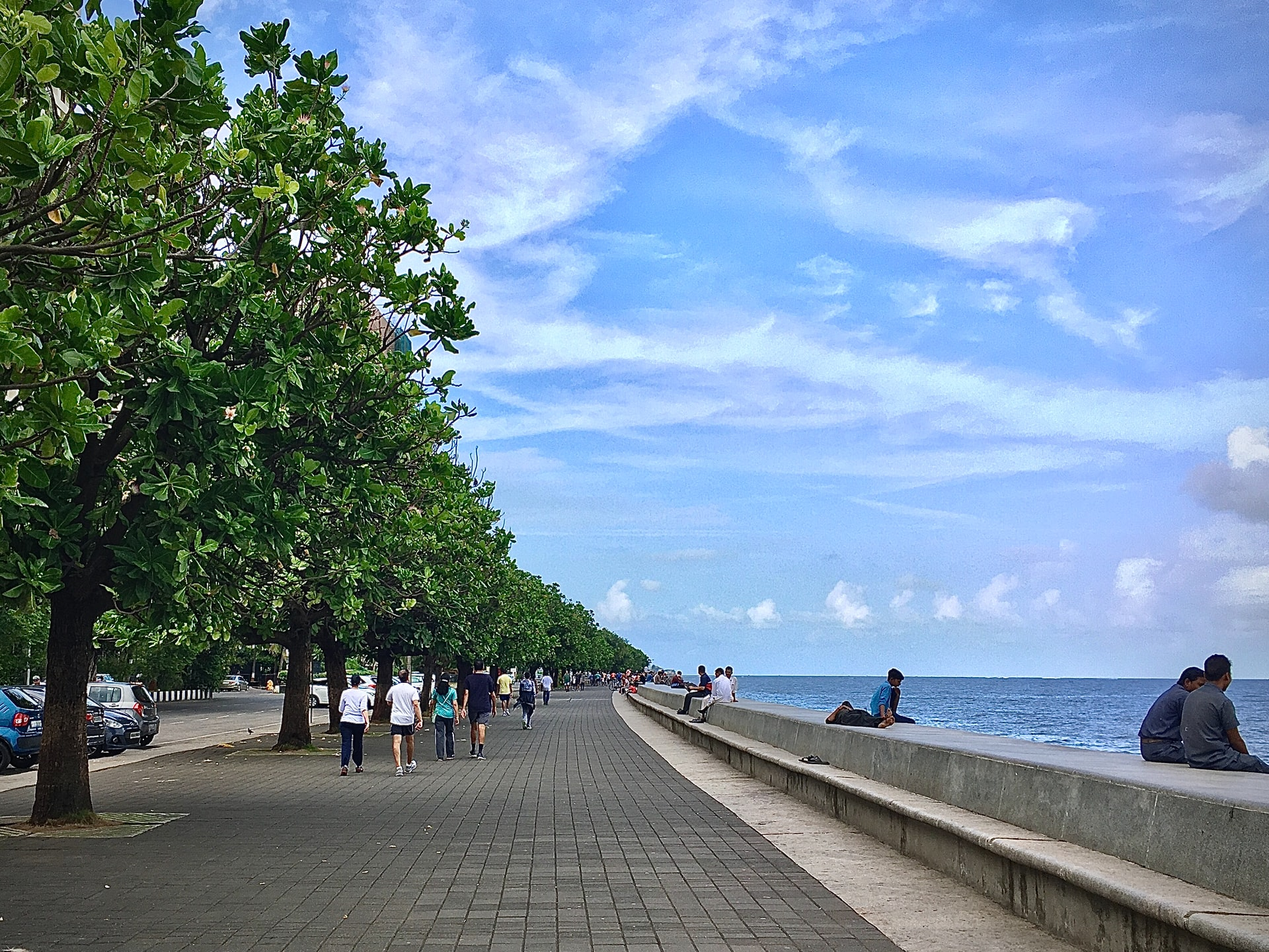
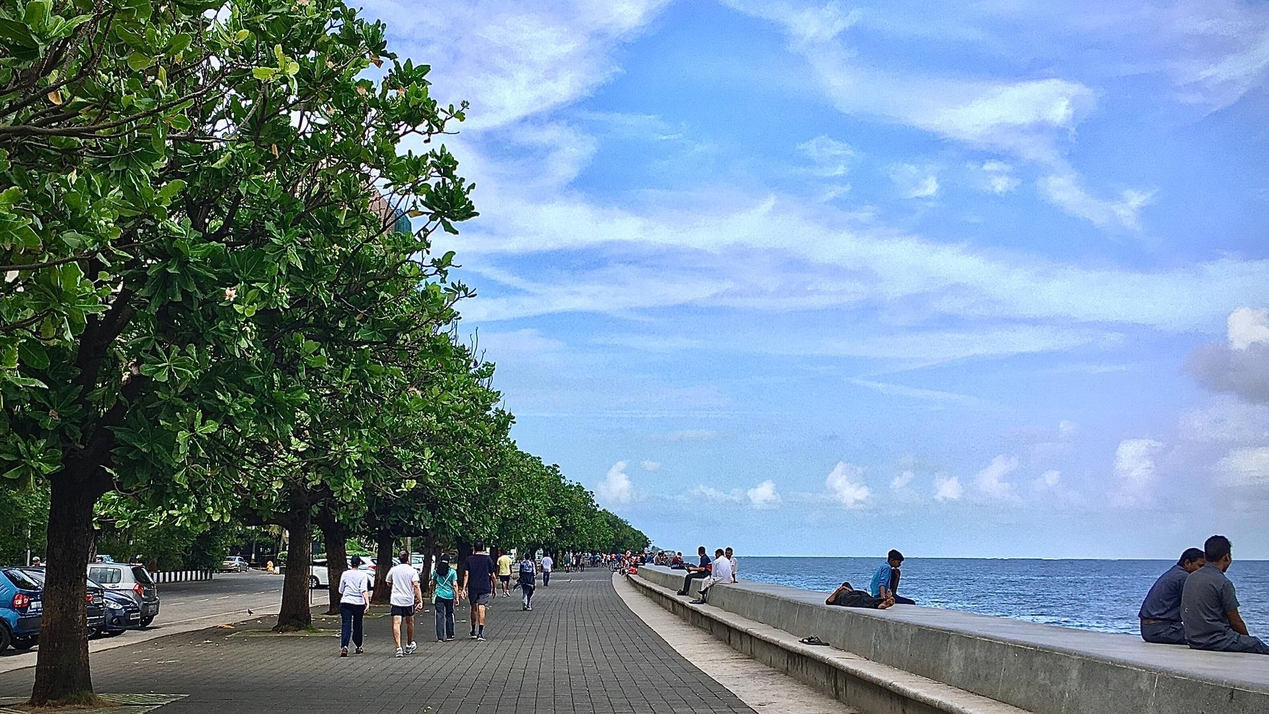
Images optimized and readme changed

diff --git a/README.md b/README.md
@@ -1,6 +1,11 @@
-# Getting Started with Create React App
+# Fire Up Recrutation Projects
 
-This project was bootstrapped with [Create React App](https://github.com/facebook/create-react-app).
+This projects was created as a part of recrutation process in Fire Up Company.
+Design was provided by company I had to create my own version of weather app.
+
+## Live version
+
+You can find live version right here: `https://fireup-recrutation.netlify.app`
 
 ## Available Scripts
 
@@ -8,39 +13,4 @@ In the project directory, you can run:
 
 ### `npm start`
 
-Runs the app in the development mode.\
-Open [http://localhost:3000](http://localhost:3000) to view it in the browser.
-
-The page will reload if you make edits.\
-You will also see any lint errors in the console.
-
-### `npm test`
-
-Launches the test runner in the interactive watch mode.\
-See the section about [running tests](https://facebook.github.io/create-react-app/docs/running-tests) for more information.
-
 ### `npm run build`
-
-Builds the app for production to the `build` folder.\
-It correctly bundles React in production mode and optimizes the build for the best performance.
-
-The build is minified and the filenames include the hashes.\
-Your app is ready to be deployed!
-
-See the section about [deployment](https://facebook.github.io/create-react-app/docs/deployment) for more information.
-
-### `npm run eject`
-
-**Note: this is a one-way operation. Once you `eject`, you can’t go back!**
-
-If you aren’t satisfied with the build tool and configuration choices, you can `eject` at any time. This command will remove the single build dependency from your project.
-
-Instead, it will copy all the configuration files and the transitive dependencies (webpack, Babel, ESLint, etc) right into your project so you have full control over them. All of the commands except `eject` will still work, but they will point to the copied scripts so you can tweak them. At this point you’re on your own.
-
-You don’t have to ever use `eject`. The curated feature set is suitable for small and middle deployments, and you shouldn’t feel obligated to use this feature. However we understand that this tool wouldn’t be useful if you couldn’t customize it when you are ready for it.
-
-## Learn More
-
-You can learn more in the [Create React App documentation](https://facebook.github.io/create-react-app/docs/getting-started).
-
-To learn React, check out the [React documentation](https://reactjs.org/).
